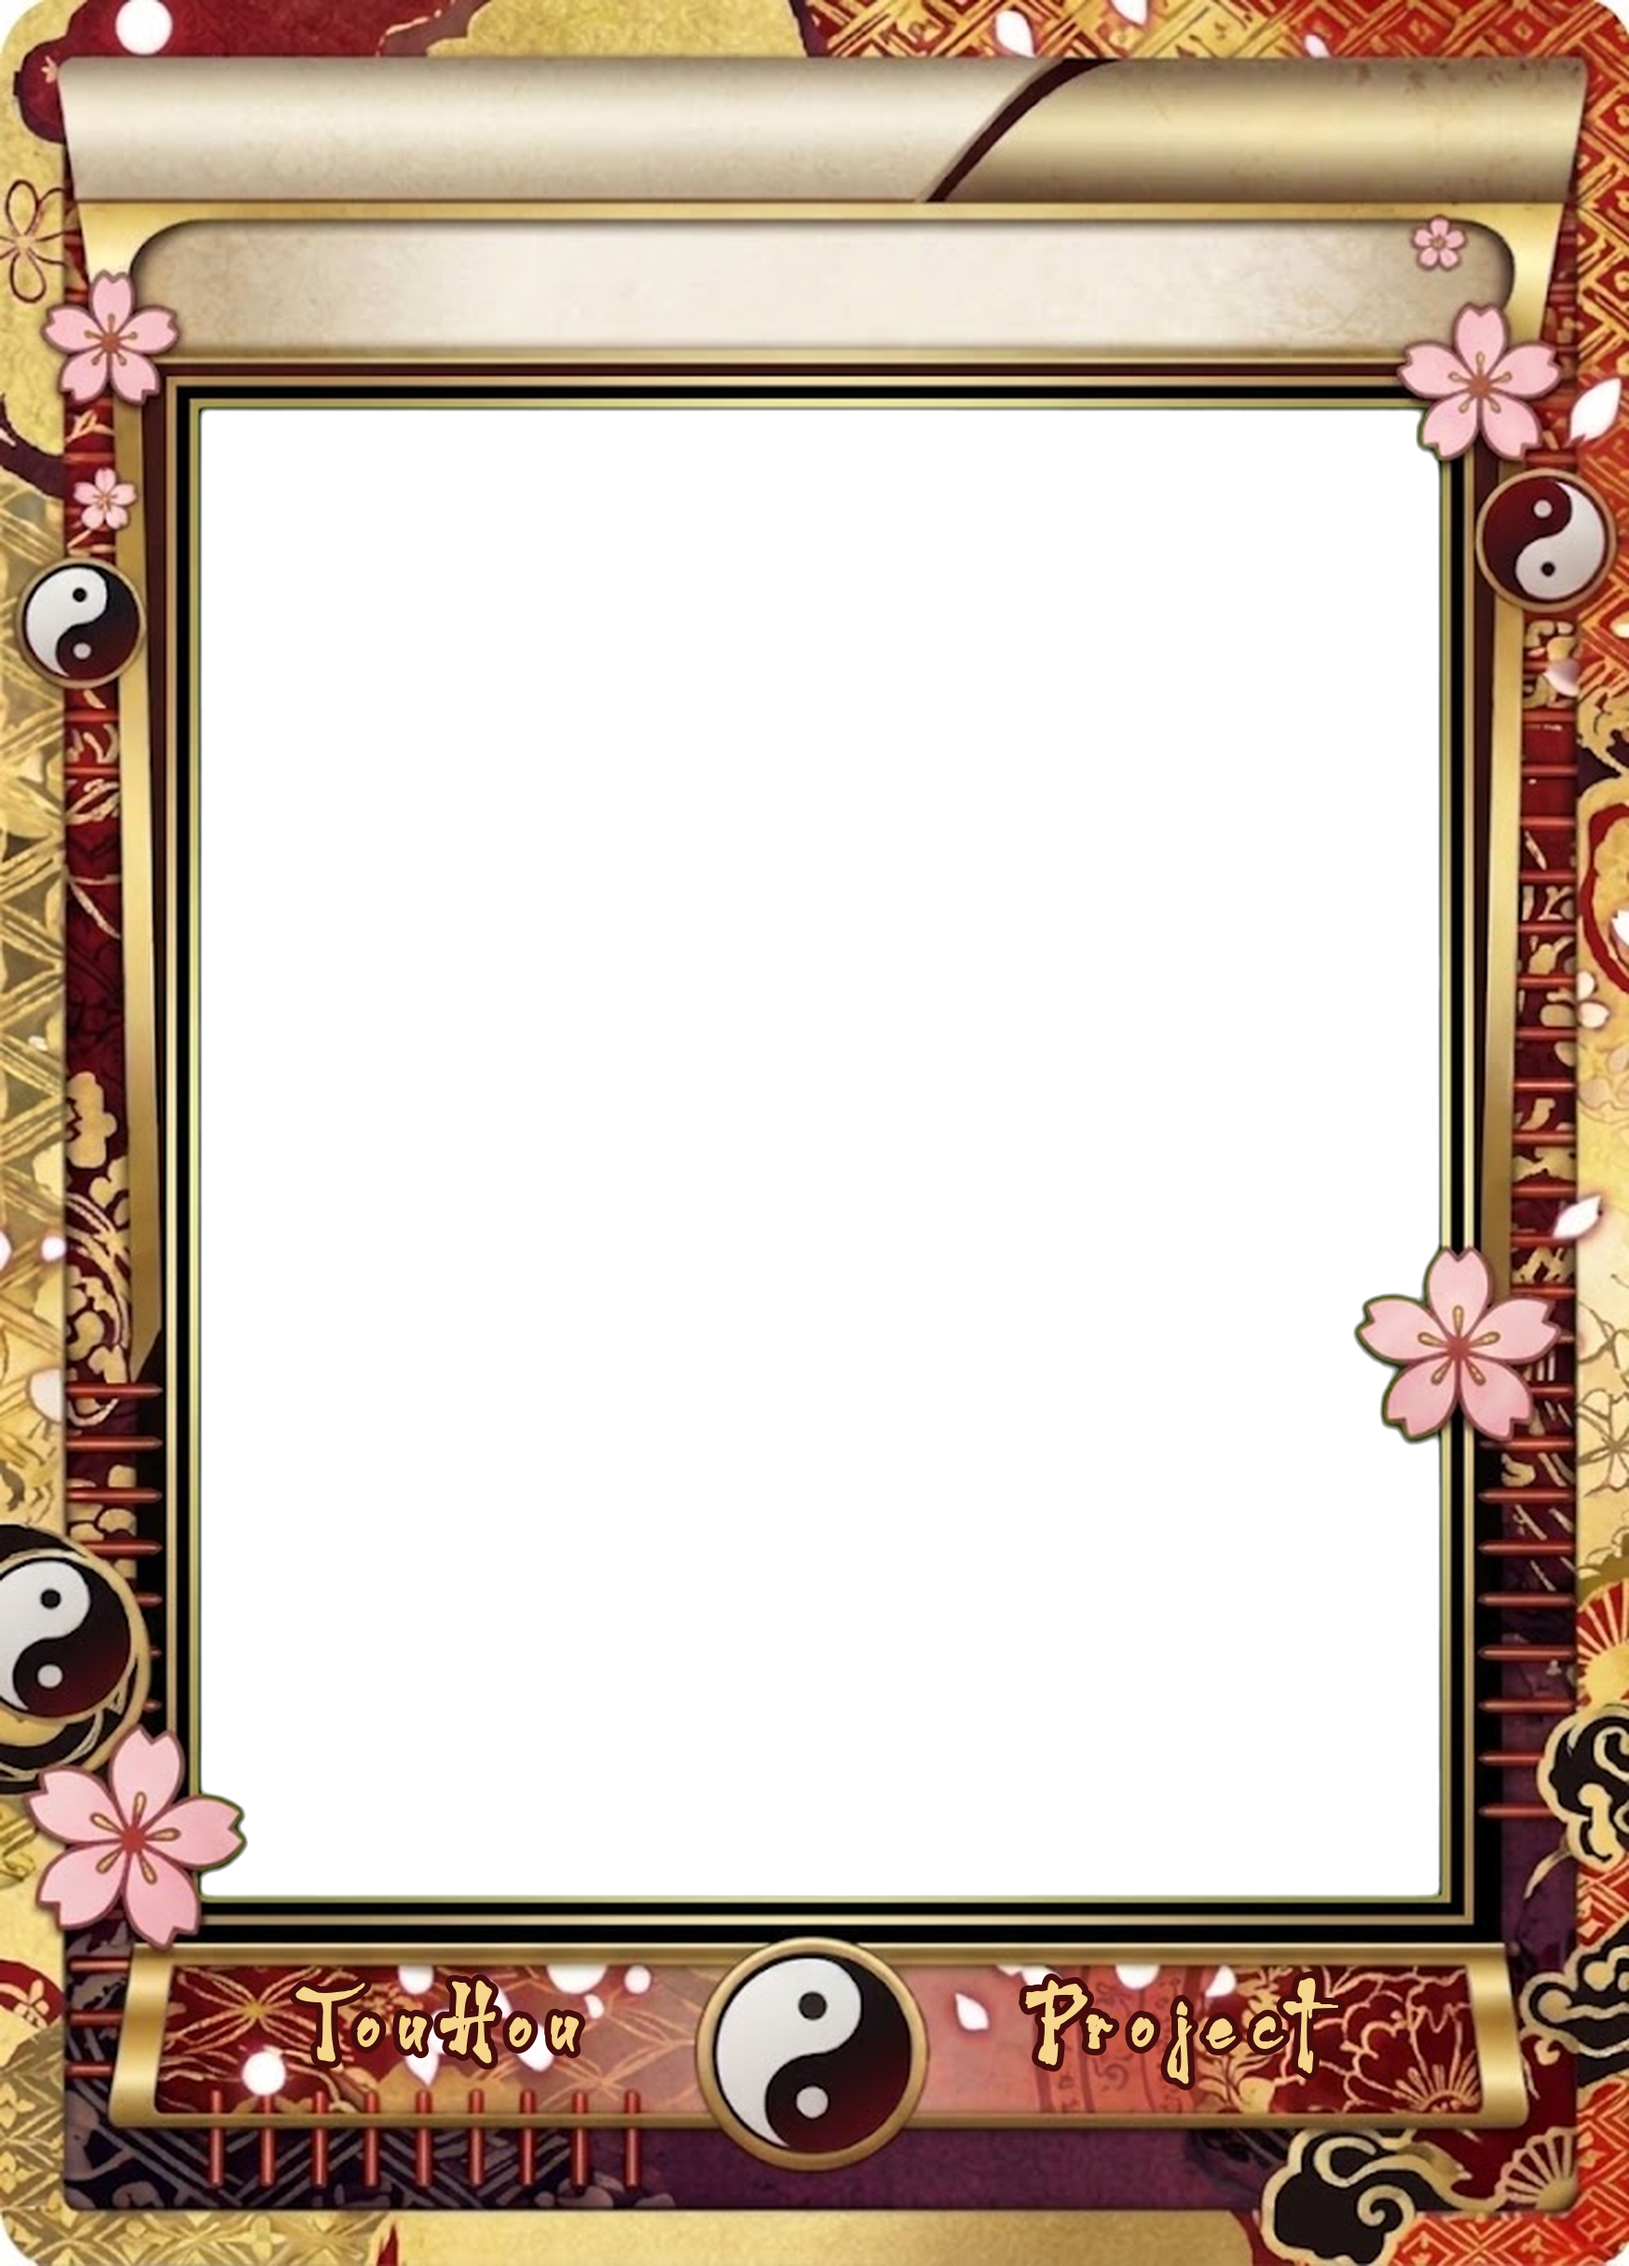
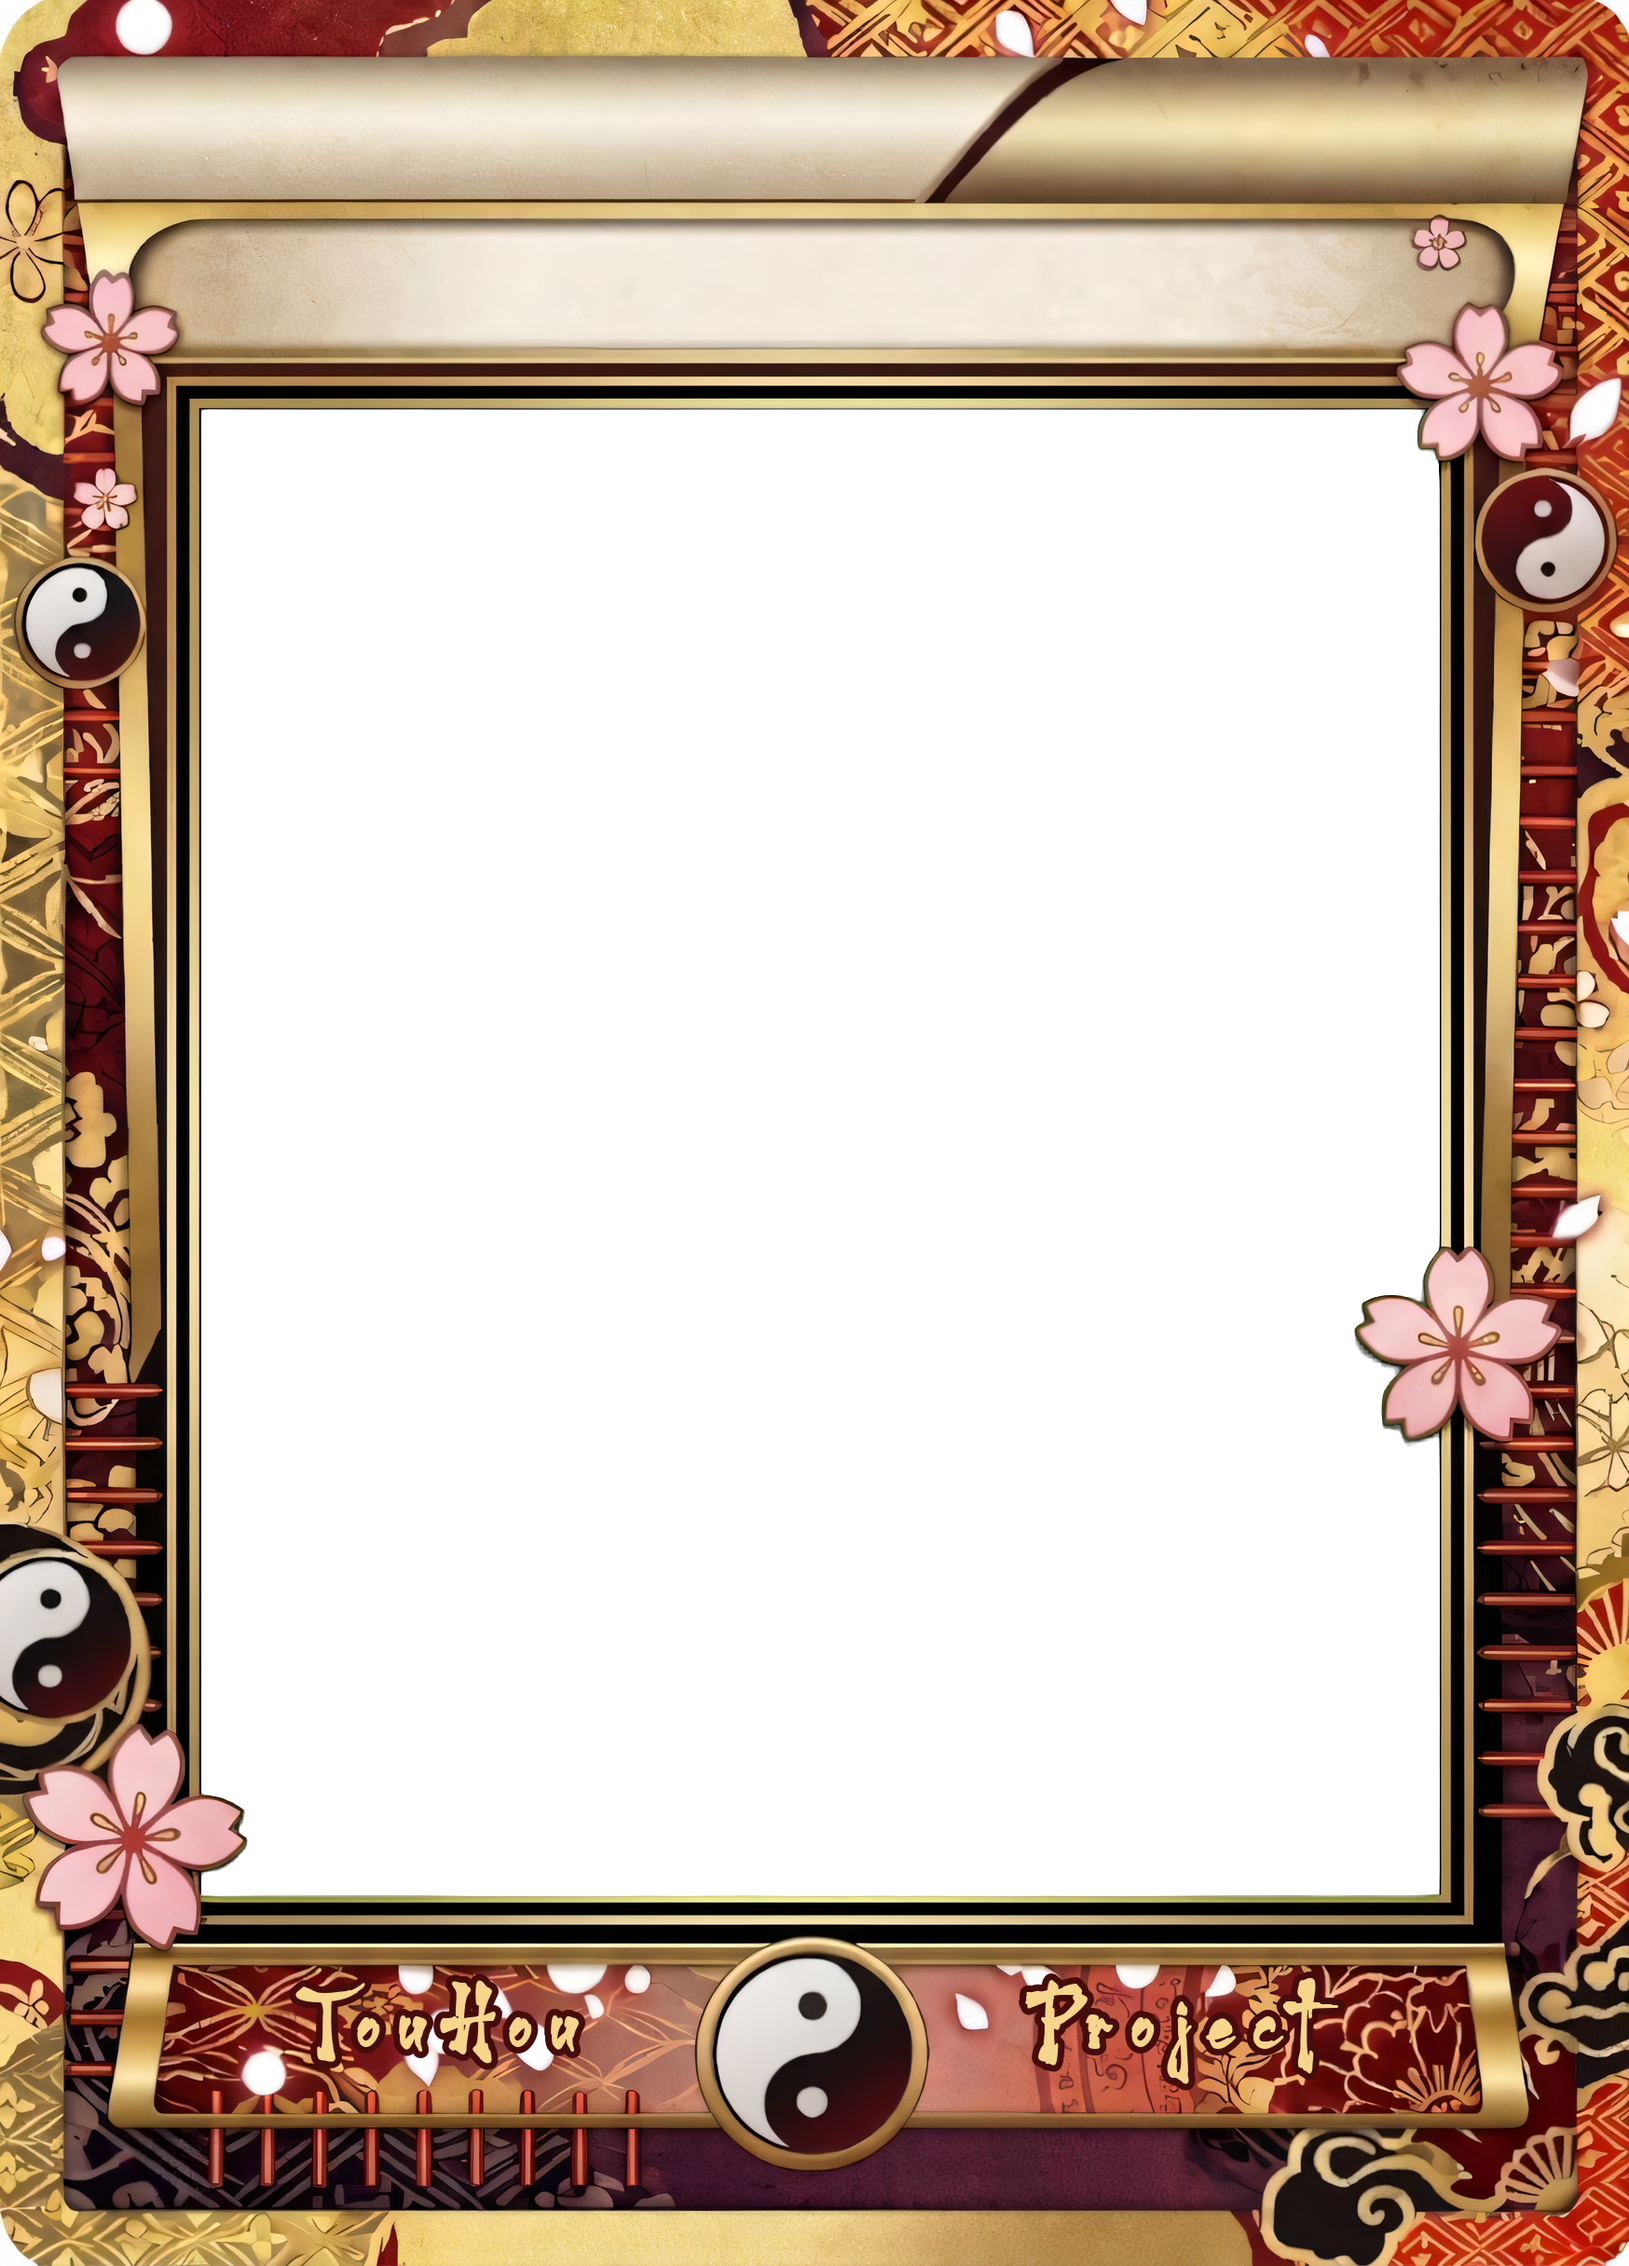
feat: 卡框改用 AI 放大的綠幕原圖，所有卡面重新產生
- 綠幕卡框原圖只有 736×1024，用 ComfyUI 4x-UltraSharp 放大後縮成 1748×2432 (empty_greenscreen_hd.png)
- make_empty.py 優先讀放大版；重做 empty.png 與 15 張卡面縮圖

Changed region(s): [[0.0, 0.0, 1.0, 1.0], [0.4943, 0.0, 0.865, 0.0312], [0.865, 0.0938, 0.8959, 0.125]]

diff --git a/tools/card_art/make_empty.py b/tools/card_art/make_empty.py
@@ -1,16 +1,20 @@
 """空白卡框 empty.png：綠幕卡框 (中間 0,255,0) 去背成透明畫窗，底部陰陽玉兩側加上 TouHou / Project
 python tools/card_art/make_empty.py
-讀 images/Original/Thumbnails/empty_greenscreen.jpg ➔ 寫 images/Original/Thumbnails/empty.png"""
+讀 images/Original/Thumbnails/empty_greenscreen_hd.png ➔ 寫 images/Original/Thumbnails/empty.png
+
+綠幕原圖 empty_greenscreen.jpg 只有 736×1024，直接放大會糊；empty_greenscreen_hd.png 是用 ComfyUI
+4x-UltraSharp (models/upscale_models/) 放大 4 倍後再縮成 1748×2432 的版本，沒有 hd 檔時才退回原圖"""
 import os
 import numpy as np
 from PIL import Image, ImageDraw, ImageFont
 
 HERE = os.path.dirname(os.path.abspath(__file__))
 THUMB_DIR = os.path.join(os.path.dirname(os.path.dirname(HERE)), "images", "Original", "Thumbnails")
+SRC_HD = os.path.join(THUMB_DIR, "empty_greenscreen_hd.png")
 SRC = os.path.join(THUMB_DIR, "empty_greenscreen.jpg")
 OUT = os.path.join(THUMB_DIR, "empty.png")
 NAME_FONT = os.path.join(HERE, "fonts", "HarukazeSolid.ttf")
-SIZE = (1748, 2432)                       # 跟 fill.png 一樣 (綠幕原圖只有 736×1024，先放大)
+SIZE = (1748, 2432)                       # 跟 fill.png 一樣
 BOTTOM_LEFT = (230, 2118, 730, 2222)
 BOTTOM_RIGHT = (1012, 2118, 1512, 2222)
 TRACKING = 0.12                           # 字距 (字級的比例)
@@ -51,7 +55,8 @@ def draw_spaced(img, text, box, max_size, stroke_ratio, fill, stroke_fill, size=
 
 
 def main():
-    img = Image.open(SRC).convert("RGB").resize(SIZE, Image.LANCZOS)   # 先放大再去背，邊緣比較平滑
+    src = SRC_HD if os.path.exists(SRC_HD) else SRC
+    img = Image.open(src).convert("RGB").resize(SIZE, Image.LANCZOS)   # 先調成卡面尺寸再去背，邊緣比較平滑
     img = chroma_key(img)
     # Project 用 TouHou 的字級與基線，兩邊水平對齊
     size = draw_spaced(img, "TouHou", BOTTOM_LEFT, 300, 0.05, (245, 214, 140), (70, 12, 12))
